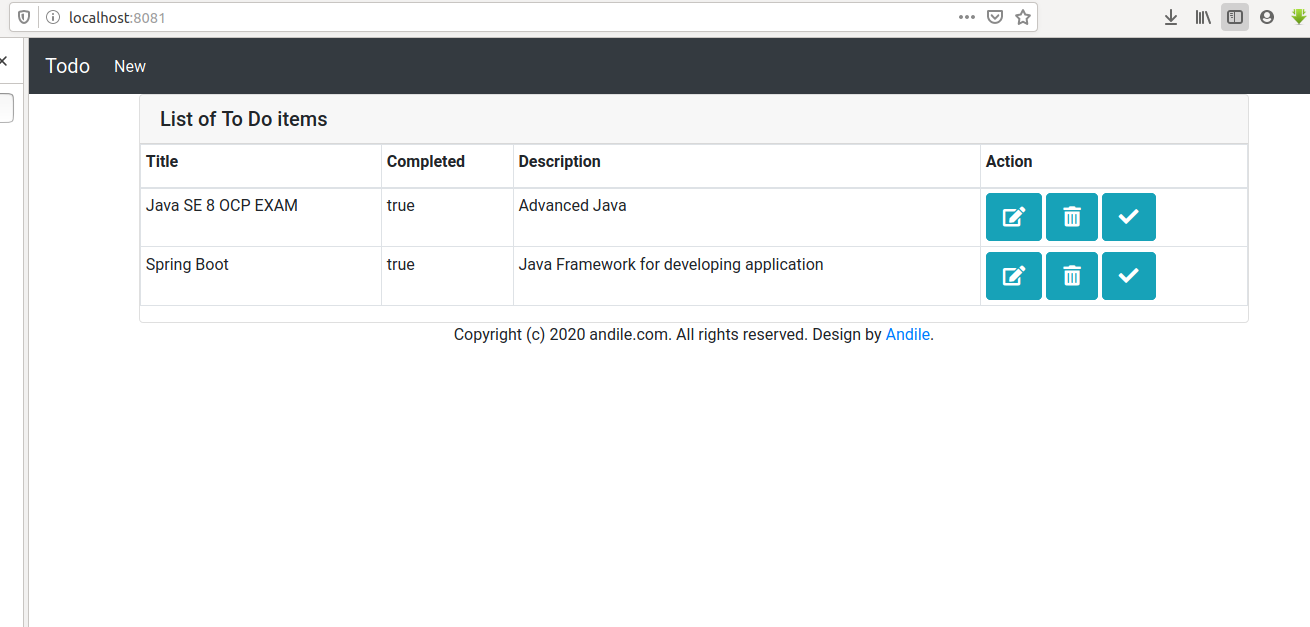
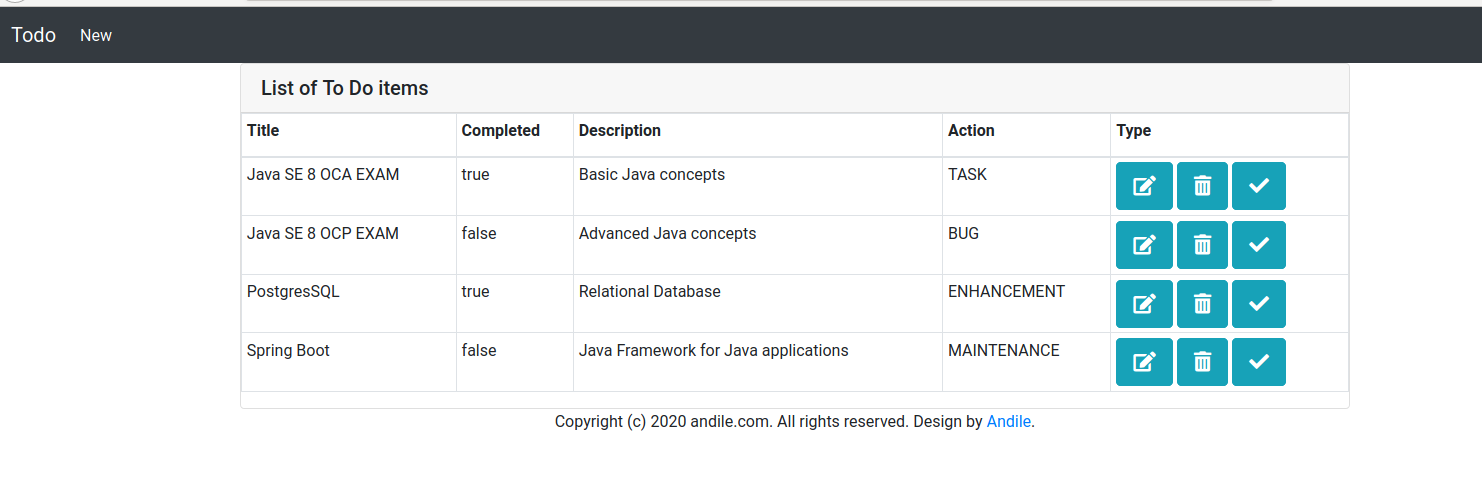
managed to get the enum values to the View side

diff --git a/src/main/java/io/jumpco/demo/todo/controller/TodoController.java b/src/main/java/io/jumpco/demo/todo/controller/TodoController.java
@@ -80,8 +80,6 @@ public class TodoController {
             result.addObject("modeTitle", "Create");
             result.addAllObjects(model.asMap());
 
-           // Map referenceData = new HashMap();
-
             Map<String, String> todoType = new LinkedHashMap<>();
             todoType.put("TASK","TASK");
             todoType.put("BUG","BUG");
@@ -90,12 +88,6 @@ public class TodoController {
             todoType.put("MAINTENANCE","MAINTENANCE");
 
             result.addObject("todoMap", todoType);
-            //result.addObject();
-           // referenceData.put("typeList", type);
-//           for(TodoType item : TodoType.values()) {
-//                System.out.println(item.name(), item);
-//            }
-
             return result;
         }
         todoService.create(todo);

diff --git a/src/main/java/io/jumpco/demo/todo/model/TodoType.java b/src/main/java/io/jumpco/demo/todo/model/TodoType.java
@@ -2,11 +2,11 @@ package io.jumpco.demo.todo.model;
 
 public enum TodoType {
 	
-	TASK("T"),
-	BUG("B"),
-	FEATURE ("F"),
-	ENHANCEMENT("E"),
-	MAINTENANCE("M");
+	TASK("TASK"),
+	BUG("BUG"),
+	FEATURE ("FEATURE"),
+	ENHANCEMENT("ENHANCEMENT"),
+	MAINTENANCE("MAINTENANCE");
 
 	private String name;
 

diff --git a/README.md b/README.md
@@ -30,7 +30,10 @@ java -jar ./target/todo-0.0.1-SNAPSHOT.jar
 OR launch from IDE
 
 Then visit http://localhost:8081
-
+-Home page with the Todo items
 ![](src/main/webapp/screenshots/index.png)
-![](src/main/webapp/screenshots/add-edit.png)
+- Create page with the drop-down box
+![](src/main/webapp/screenshots/create.png)
 
+- Todo items stored in the PostgresSQL database 
+![](src/main/webapp/screenshots/databaseTodo.png)
